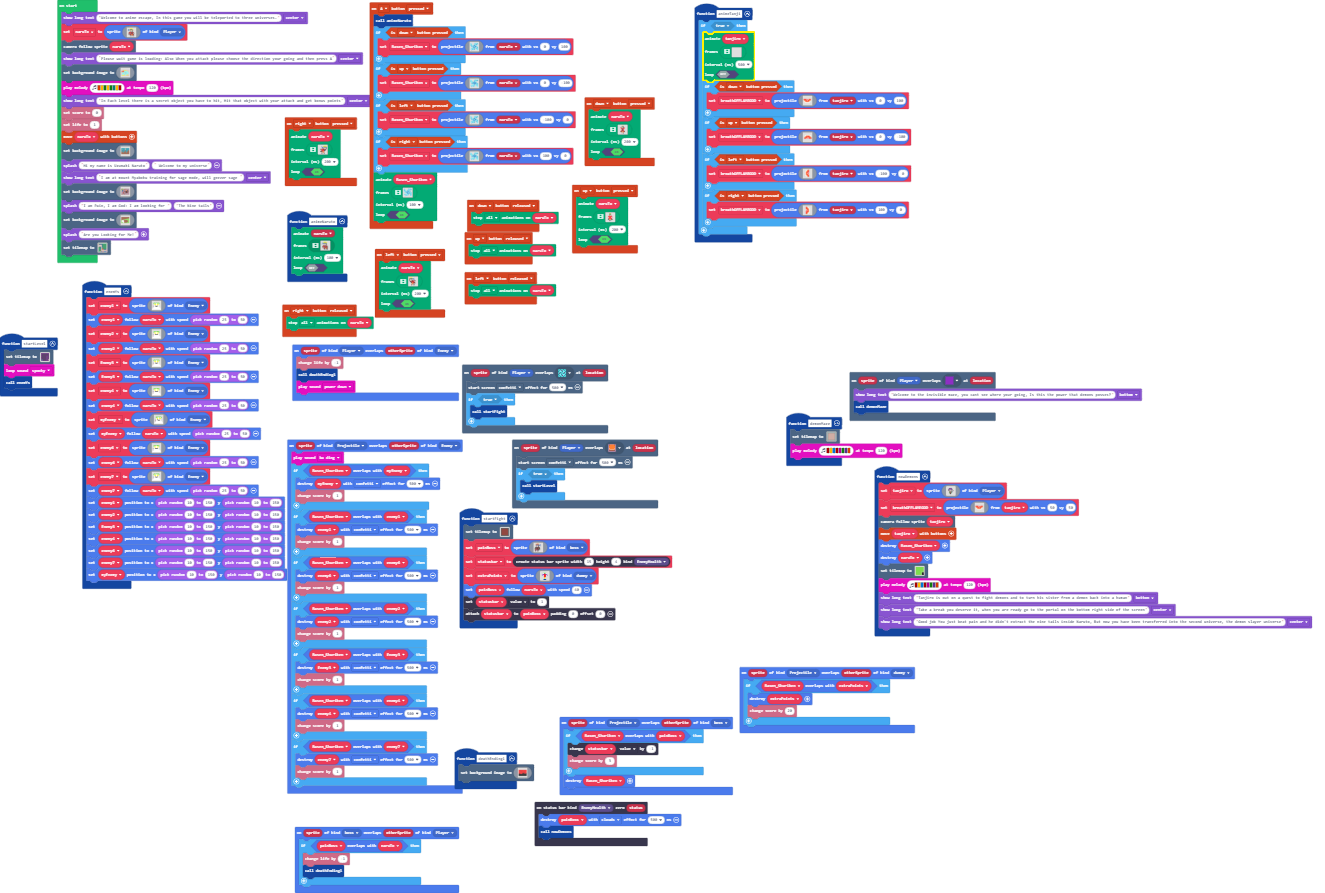
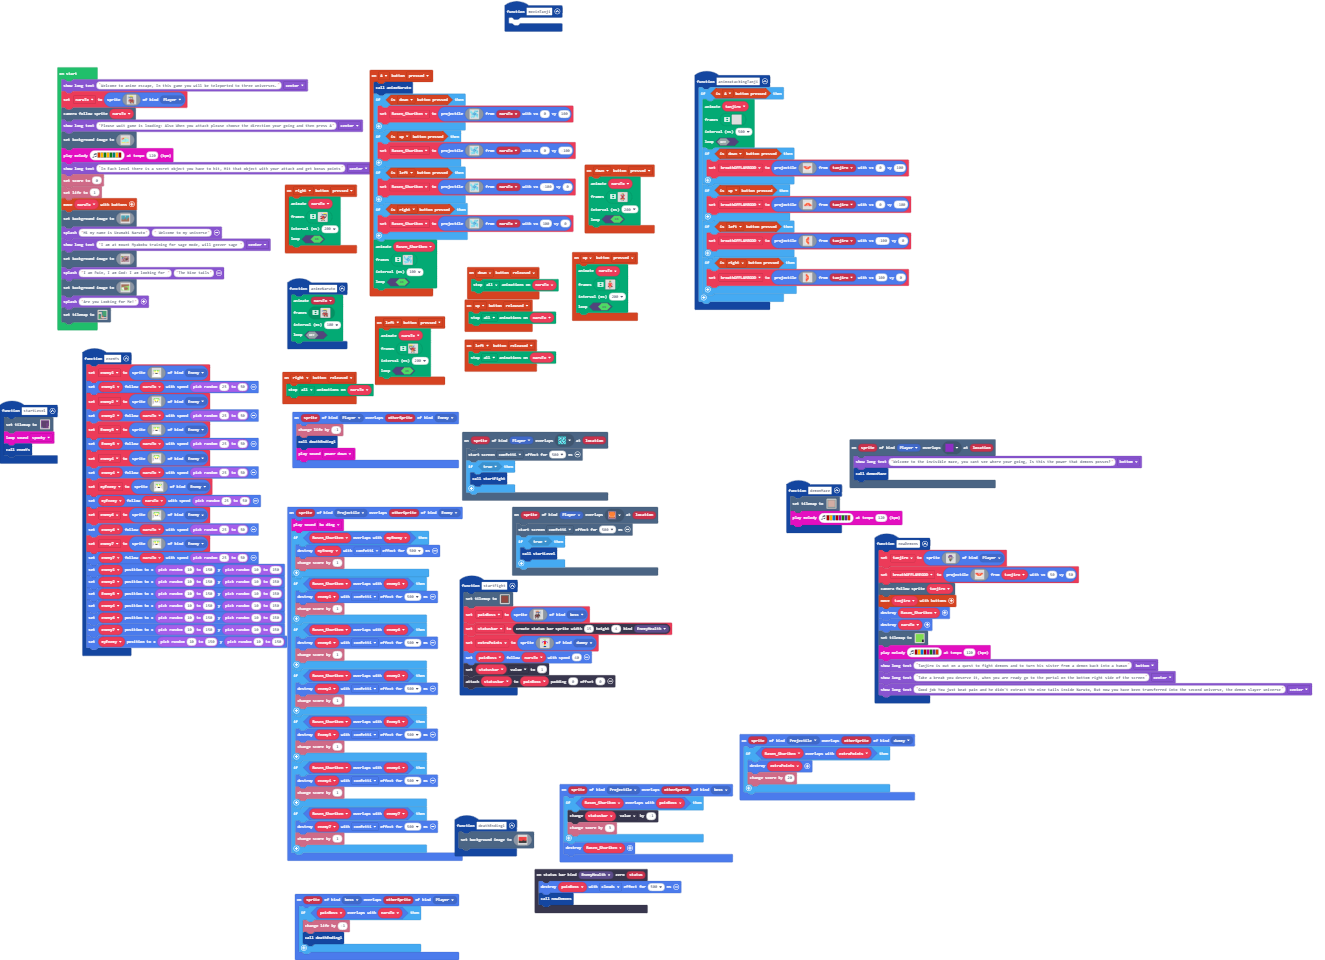
Update main.blocks, main.ts

diff --git a/main.ts b/main.ts
@@ -181,37 +181,8 @@ controller.A.onEvent(ControllerButtonEvent.Pressed, function () {
     true
     )
 })
-controller.down.onEvent(ControllerButtonEvent.Released, function () {
-    animation.stopAnimation(animation.AnimationTypes.All, naruTo)
-})
-controller.left.onEvent(ControllerButtonEvent.Pressed, function () {
-    animation.runImageAnimation(
-    naruTo,
-    assets.animation`Naru left`,
-    200,
-    true
-    )
-})
-controller.right.onEvent(ControllerButtonEvent.Released, function () {
-    animation.stopAnimation(animation.AnimationTypes.All, naruTo)
-})
-sprites.onOverlap(SpriteKind.boss, SpriteKind.Player, function (sprite, otherSprite) {
-    if (painBoss.overlapsWith(naruTo)) {
-        info.changeLifeBy(-1)
-        deathEnding1()
-    }
-})
-controller.left.onEvent(ControllerButtonEvent.Released, function () {
-    animation.stopAnimation(animation.AnimationTypes.All, naruTo)
-})
-sprites.onOverlap(SpriteKind.Projectile, SpriteKind.dummy, function (sprite, otherSprite) {
-    if (Rasen_Shuriken.overlapsWith(extraPoints)) {
-        extraPoints.destroy()
-        info.changeScoreBy(20)
-    }
-})
-function animeTanji () {
-    if (true) {
+function animeatackingTanji () {
+    if (controller.A.isPressed()) {
         animation.runImageAnimation(
         tanjiro,
         [img`
@@ -249,6 +220,35 @@ function animeTanji () {
         }
     }
 }
+controller.down.onEvent(ControllerButtonEvent.Released, function () {
+    animation.stopAnimation(animation.AnimationTypes.All, naruTo)
+})
+controller.left.onEvent(ControllerButtonEvent.Pressed, function () {
+    animation.runImageAnimation(
+    naruTo,
+    assets.animation`Naru left`,
+    200,
+    true
+    )
+})
+controller.right.onEvent(ControllerButtonEvent.Released, function () {
+    animation.stopAnimation(animation.AnimationTypes.All, naruTo)
+})
+sprites.onOverlap(SpriteKind.boss, SpriteKind.Player, function (sprite, otherSprite) {
+    if (painBoss.overlapsWith(naruTo)) {
+        info.changeLifeBy(-1)
+        deathEnding1()
+    }
+})
+controller.left.onEvent(ControllerButtonEvent.Released, function () {
+    animation.stopAnimation(animation.AnimationTypes.All, naruTo)
+})
+sprites.onOverlap(SpriteKind.Projectile, SpriteKind.dummy, function (sprite, otherSprite) {
+    if (Rasen_Shuriken.overlapsWith(extraPoints)) {
+        extraPoints.destroy()
+        info.changeScoreBy(20)
+    }
+})
 statusbars.onZero(StatusBarKind.EnemyHealth, function (status) {
     painBoss.destroy(effects.clouds, 500)
     nowDemons()
@@ -411,6 +411,9 @@ controller.right.onEvent(ControllerButtonEvent.Pressed, function () {
     true
     )
 })
+function movinTanji () {
+	
+}
 function animeNaruto () {
     animation.runImageAnimation(
     naruTo,
@@ -504,10 +507,10 @@ sprites.onOverlap(SpriteKind.Player, SpriteKind.Enemy, function (sprite, otherSp
     music.powerDown.play()
 })
 let statusbar: StatusBarSprite = null
-let breathOFFLAMEGOD: Sprite = null
-let tanjiro: Sprite = null
 let extraPoints: Sprite = null
 let painBoss: Sprite = null
+let breathOFFLAMEGOD: Sprite = null
+let tanjiro: Sprite = null
 let Rasen_Shuriken: Sprite = null
 let enemy7: Sprite = null
 let enemy6: Sprite = null
